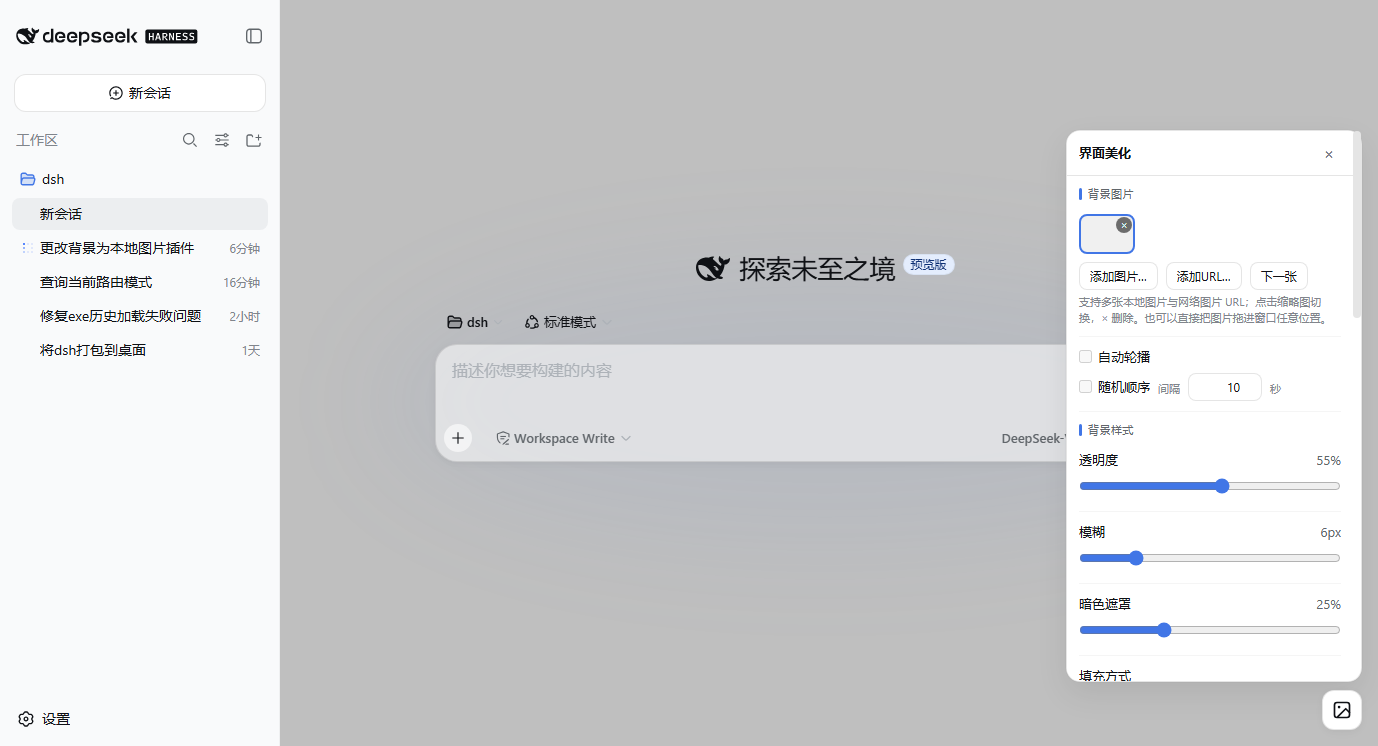
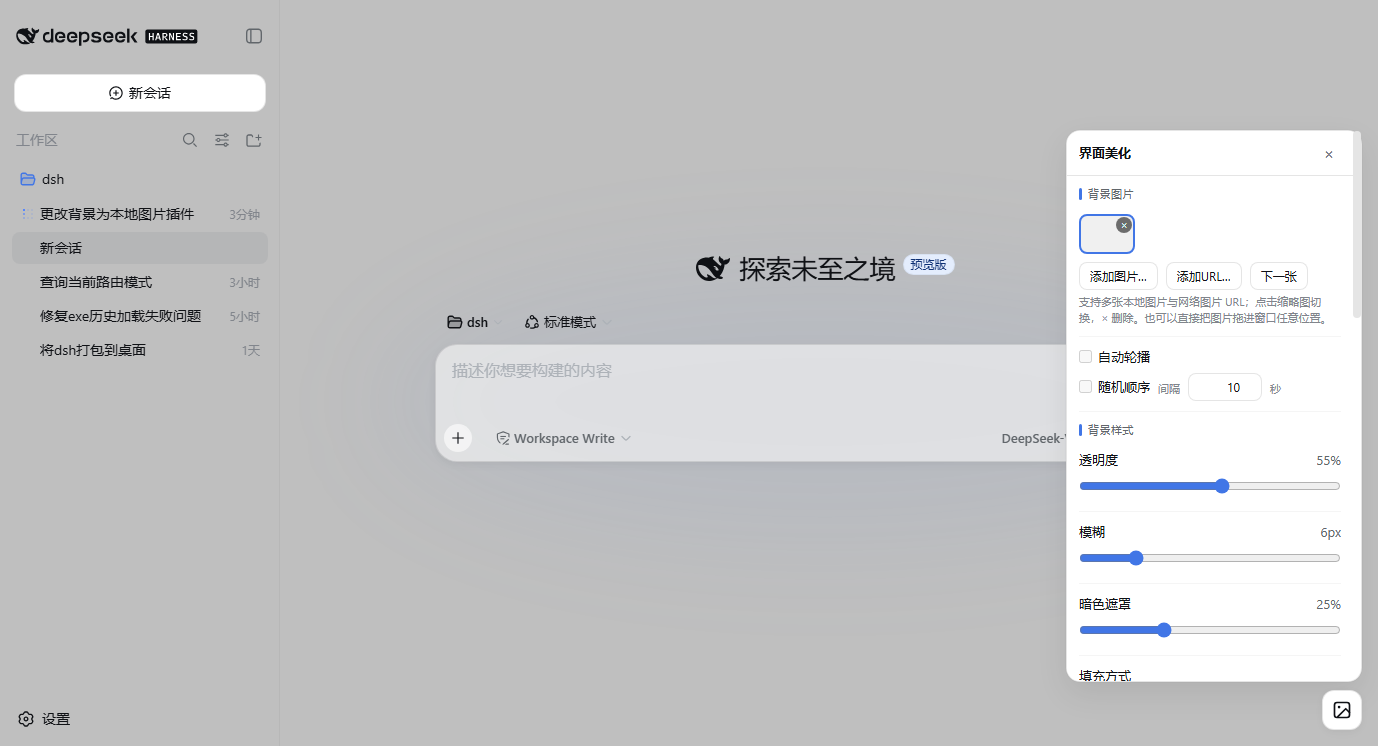
fix: apply unified background to sidebar COLUMN (was hidden by its opaque fill)

Changed region(s): [[0.0, 0.0, 0.2184, 1.0]]

diff --git a/lib/client.js b/lib/client.js
@@ -426,15 +426,16 @@ window.__ModuleLoader__.load({
 					"--dsw-specific-menu: rgba(21,21,23,0.8) !important;" +
 					"}"
 				);
-				rules.push('[data-dsh-ui-scope="sidebar"]{--dsw-specific-sidebar-fill: rgba(255,255,255,0.5) !important}');
-				rules.push('body[data-ds-dark-theme] [data-dsh-ui-scope="sidebar"]{--dsw-specific-sidebar-fill: rgba(21,21,23,0.55) !important}');
+				// 侧边栏半透明：必须覆盖在 body 级 —— 网格列 .sidebarCol 与侧边栏根元素
+				// 都使用 --dsw-specific-sidebar-fill 作背景，只覆盖根元素会被外层列挡住。
+				rules.push('body{--dsw-specific-sidebar-fill: rgba(255,255,255,0.5) !important}');
+				rules.push('body[data-ds-dark-theme]{--dsw-specific-sidebar-fill: rgba(21,21,23,0.55) !important}');
 			}
 
-			// 背景范围：整体贯穿 —— 侧边栏也变为全透明，背景图横跨整个窗口。
+			// 背景范围：整体贯穿 —— 侧边栏列与根元素全部透明，背景图横跨整个窗口。
 			// 放在毛玻璃规则之后生成，使「整体背景」优先于玻璃的半透明侧边栏。
 			if (s.bgScope === "all" && hasImg) {
-				rules.push('[data-dsh-ui-scope="sidebar"]{--dsw-specific-sidebar-fill: transparent !important}');
-				rules.push('body[data-ds-dark-theme] [data-dsh-ui-scope="sidebar"]{--dsw-specific-sidebar-fill: transparent !important}');
+				rules.push('body, body[data-ds-dark-theme]{--dsw-specific-sidebar-fill: transparent !important}');
 			}
 
 			rules.push(LAYER_CSS);
